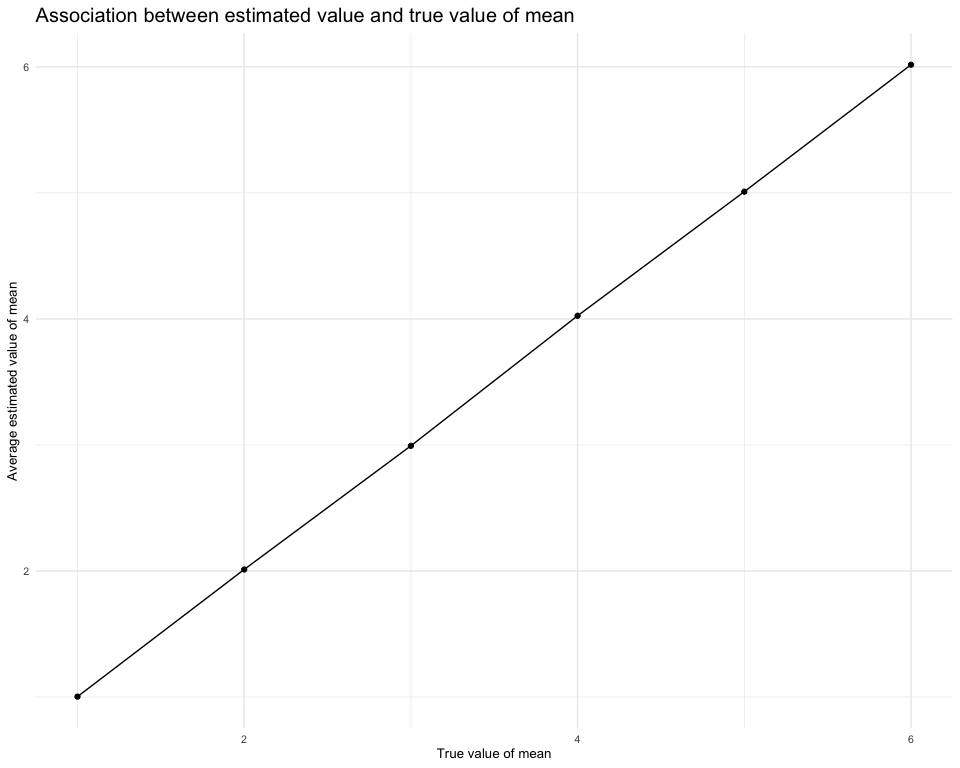
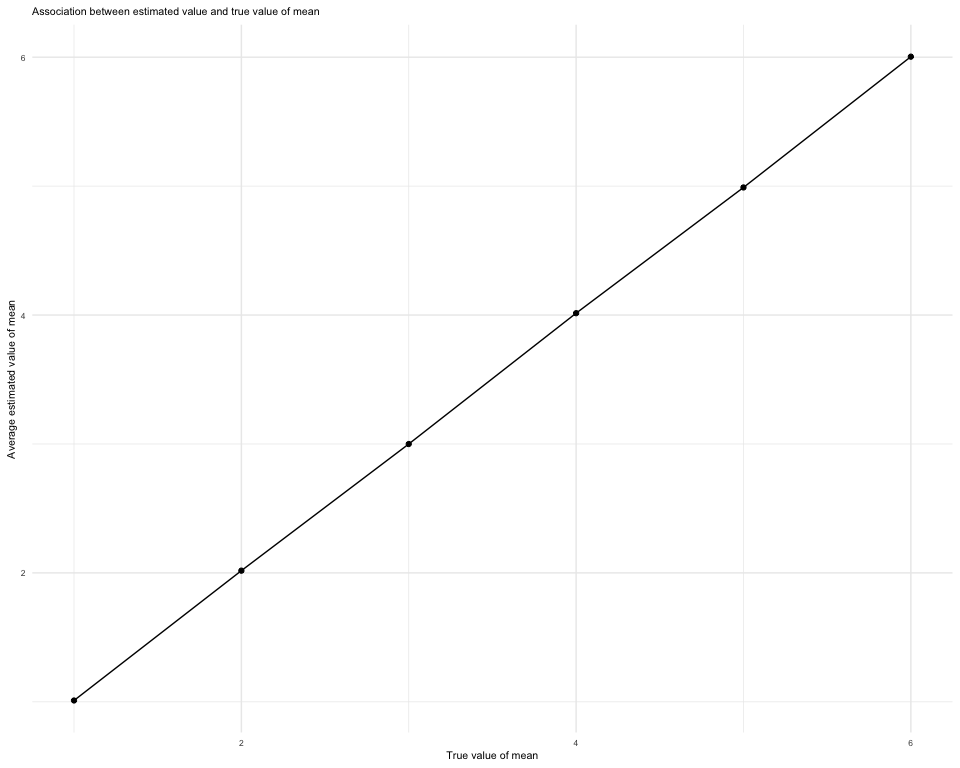
finished!

diff --git a/homework5.md b/homework5.md
@@ -463,16 +463,16 @@ t_test_1
     ## # A tibble: 5,000 × 2
     ##    estimate p.value
     ##       <dbl>   <dbl>
-    ##  1    1.10  0.328  
-    ##  2    0.471 0.649  
-    ##  3    0.839 0.447  
-    ##  4   -0.598 0.407  
-    ##  5    1.49  0.0970 
-    ##  6   -2.11  0.00350
-    ##  7   -0.398 0.687  
-    ##  8   -0.989 0.161  
-    ##  9   -0.909 0.300  
-    ## 10   -0.635 0.478  
+    ##  1    0.321   0.730
+    ##  2    0.221   0.815
+    ##  3    0.607   0.518
+    ##  4    0.175   0.829
+    ##  5    1.11    0.220
+    ##  6   -0.811   0.319
+    ##  7   -0.378   0.680
+    ##  8   -0.784   0.372
+    ##  9   -0.748   0.271
+    ## 10    0.343   0.667
     ## # … with 4,990 more rows
 
 #### Repeat the above for μ={1,2,3,4,5,6} by iteration.
@@ -513,8 +513,9 @@ plot_2
 
 <img src="homework5_files/figure-gfm/unnamed-chunk-14-1.png" width="90%" />
 According to the figure, the power of the test increases as the true
-value of mean increases.There is a positive association between effect
-size and power.
+value of mean increases, which means there is a positive association
+between effect size and power. While when the true value of mean is
+getting bigger, the increase of power of the test gradually slows down.
 
 #### Make a plot showing the average estimate of estimated μ on the y axis and the true value of μ on the x axis.
 
@@ -531,7 +532,7 @@ plot_all =
       x = "True value of mean",
       y = "Average estimated value of mean",
       title = "Association between estimated value and true value of mean") +
-      theme(plot.title = element_text(size = 15),text = element_text(size = 10)) 
+      theme(plot.title = element_text(size = 8),text = element_text(size = 8)) 
 plot_all
 ```
 
@@ -553,8 +554,28 @@ plot_rejected_HO =
       x = "True value of mean",
       y = "Average estimated value of mean",
       title = "Association between estimated value and true value of mean when H0 was rejected") +
-      theme(plot.title = element_text(size = 15),text = element_text(size = 10)) 
+      theme(plot.title = element_text(size = 8),text = element_text(size = 8)) 
 plot_rejected_HO
 ```
 
 <img src="homework5_files/figure-gfm/unnamed-chunk-16-1.png" width="90%" />
+
+``` r
+grid.arrange(plot_all, plot_rejected_HO, ncol = 2)
+```
+
+<img src="homework5_files/figure-gfm/unnamed-chunk-16-2.png" width="90%" />
+
+According to the figures above, the sample average of μ across tests for
+which the null is rejected is not approximately equal to the true value
+of μ. When the true value of mean is relatively small (1,2,3), the
+average estimated values of mean in samples for which the null was
+rejected are less than the overall values. When the true value of mean
+is relatively getting bigger (4,5,6), the average estimated values of
+mean in samples for which the null was rejected are close to the overall
+value campared with the equivalent with small true values, though still
+less than the overall values. Combined with the previous picture, I
+think this is related to the power of the test. When the true value of
+mean is getting bigger, the increase of power of the test gradually
+slows down. More false null hypotheses are rejected when true values of
+means are getting bigger.
